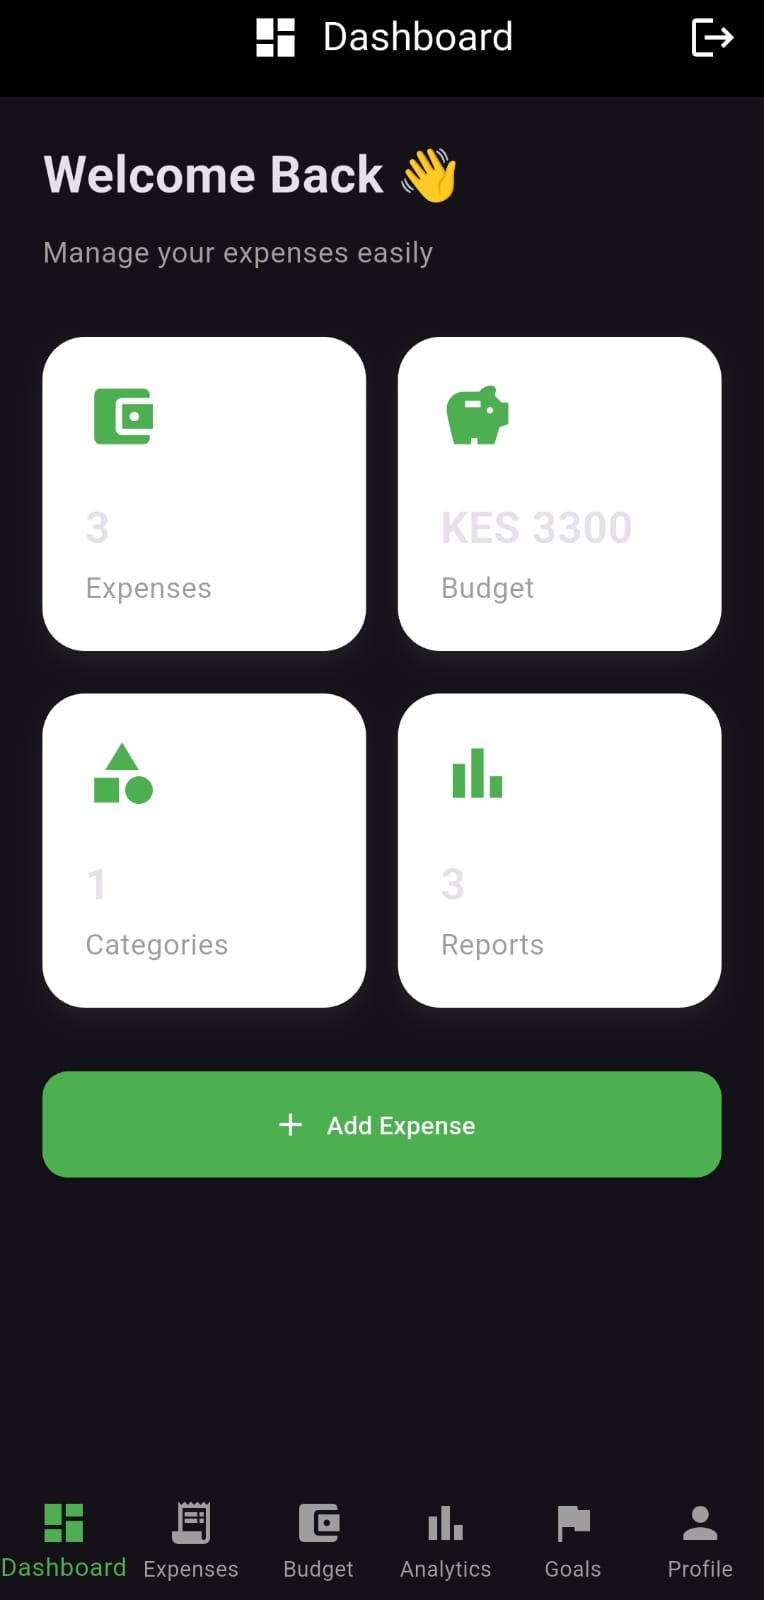
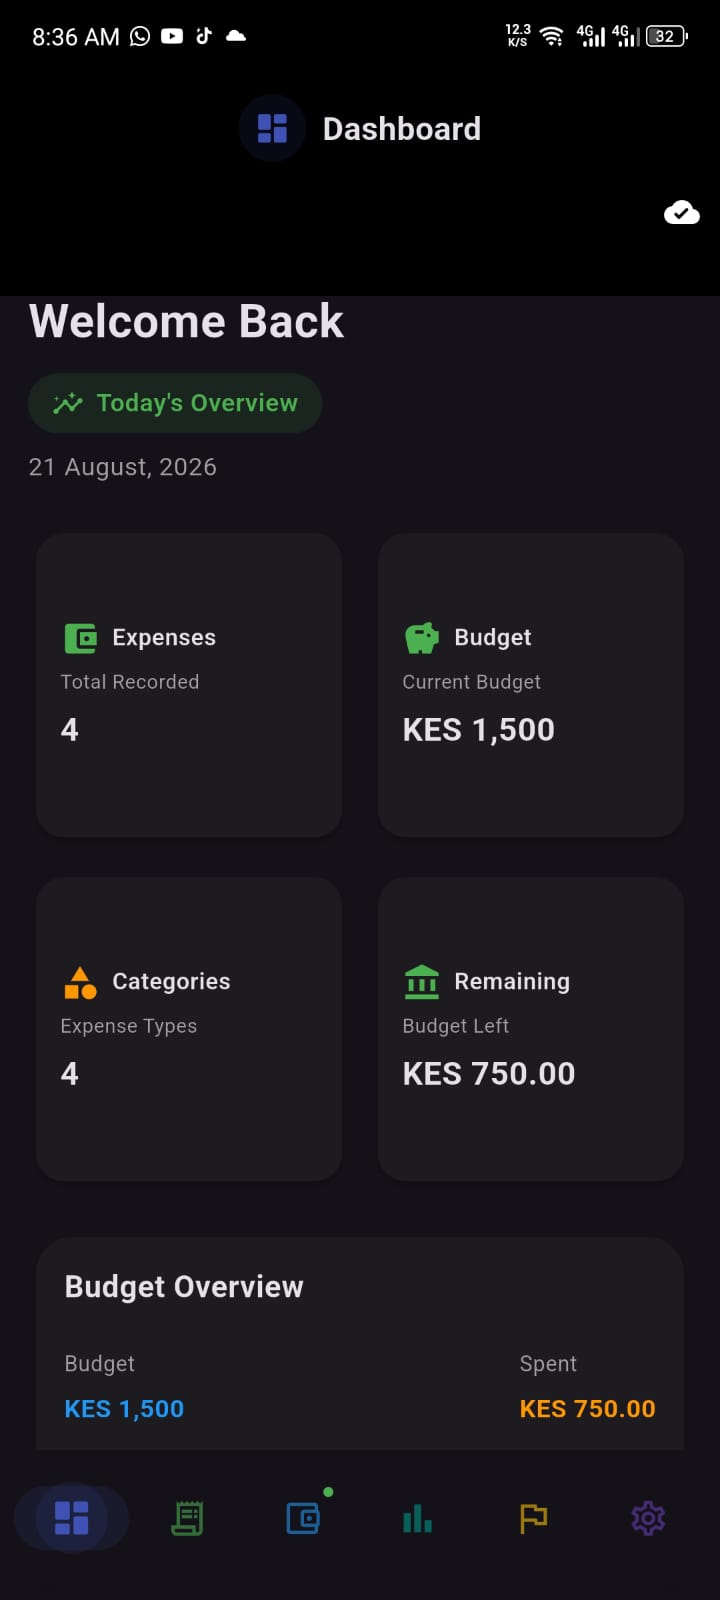
docs:refactor all screenshots with the latest versions

diff --git a/README.md b/README.md
@@ -264,8 +264,8 @@ Demo video coming soon...
     <img src="docs/screenshots/dashboard.jpeg" alt="Dashboard" width="280"/>
   </a>
 
-  <a href="docs/screenshots/budget-overview.jpeg">
-    <img src="docs/screenshots/budget-overview.jpeg" alt="Budget Overview" width="280"/>
+  <a href="docs/screenshots/budget_overview.jpeg">
+    <img src="docs/screenshots/budget_overview.jpeg" alt="Budget Overview" width="280"/>
   </a>
 </p>
 
